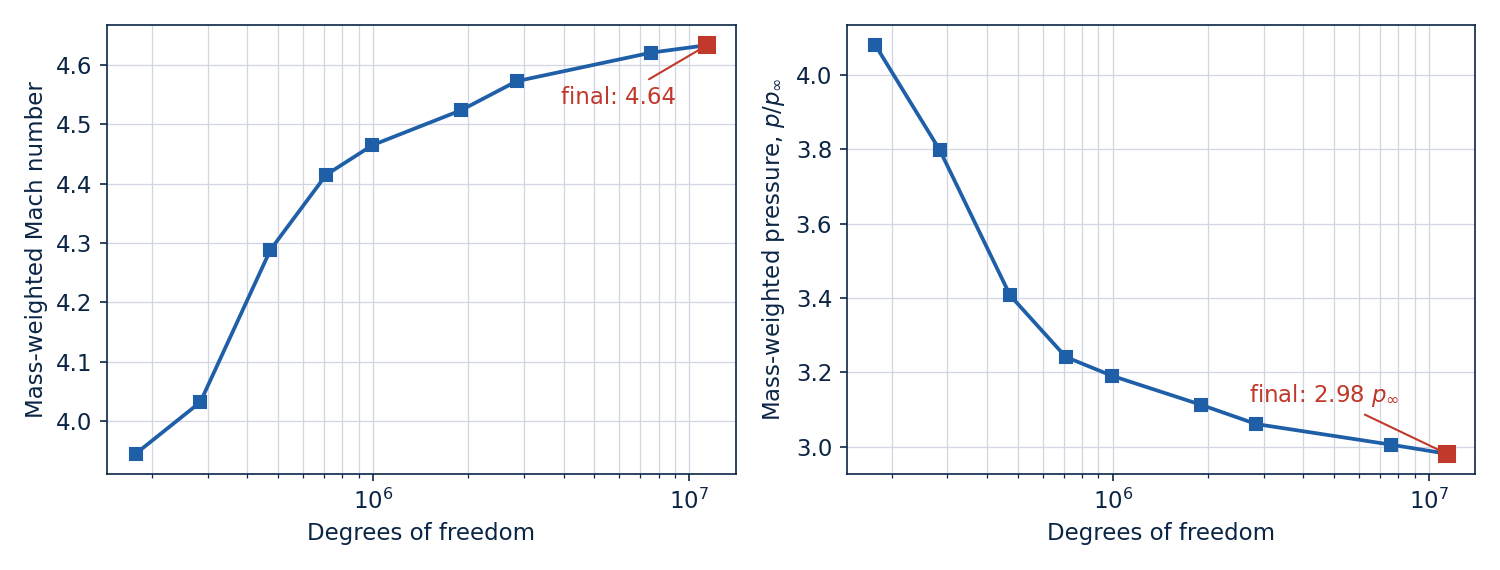
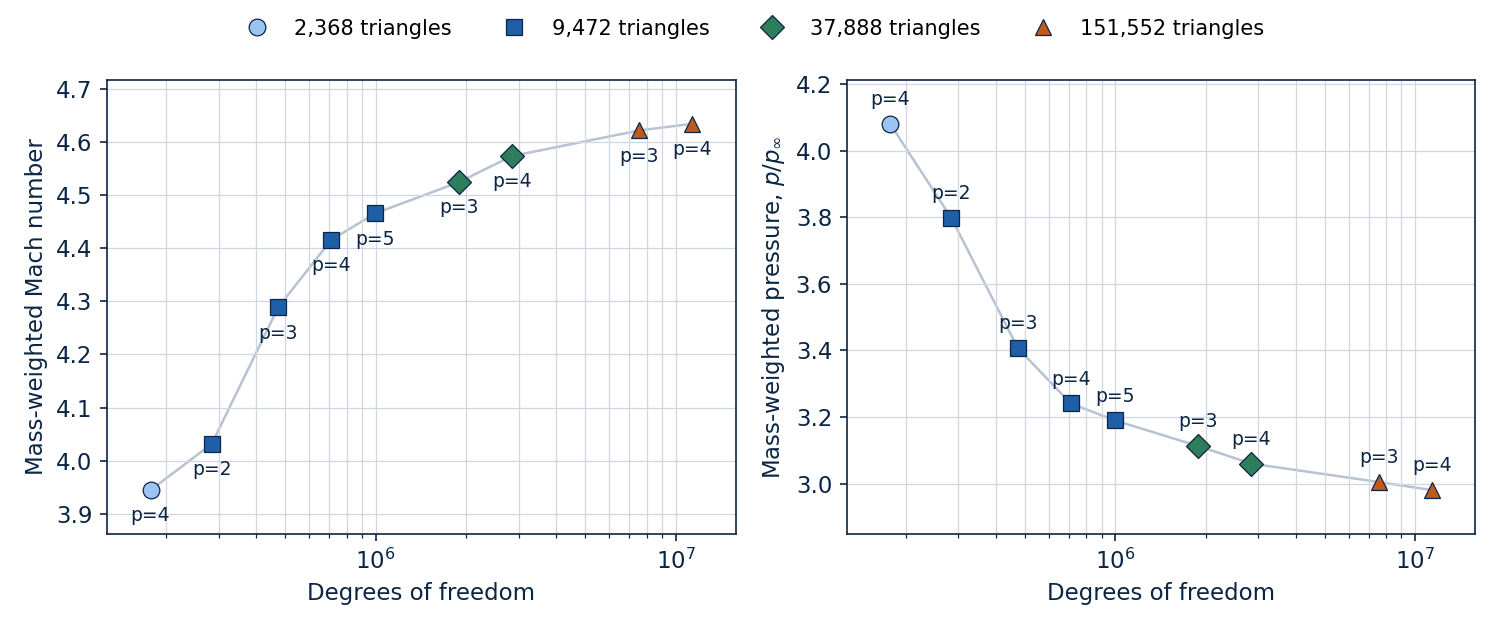
Isolator page: domain schematic, hp levels, CRC and Talon, purpose of the CFD

diff --git a/_portfolio/hypersonic-inlet-isolator.md b/_portfolio/hypersonic-inlet-isolator.md
@@ -13,35 +13,48 @@ compresses it. The isolator is a straight duct that separates the inlet from the
 pressure in the combustor becomes too high, a shock train moves upstream through the isolator and
 the inlet *unstarts*: it no longer captures the flow.
 
-My colleagues at Notre Dame measured the pressure on the inner wall of an axisymmetric
-inlet/isolator model at Mach 5.7, with fast pressure-sensitive paint [1]. Paint gives the pressure
-on the wall only. **I computed the steady flow inside the model**, to show the flow structures away
-from the wall and to give the flow conditions at the isolator entrance.
+My colleagues at Notre Dame tested an axisymmetric inlet/isolator model at Mach 5.7 and measured
+the pressure on the inner wall of the isolator with fast pressure-sensitive paint [1]. Paint gives
+the pressure on the wall only. After the experiments, **I computed the steady flow inside the
+model** to give the off-wall context of the measurements: the shocks, expansions, and separated
+regions inside the duct, and the flow conditions at the isolator entrance.
+
+## The computational model
+
+### Geometry and domain
 
 The model is a conical inlet with a 9° half-angle, followed by a straight isolator. The capture
 diameter is 63.5 mm and the isolator diameter is 50.8 mm. The free stream is at Mach 5.7, with a
 total temperature of 429.96 K, a static pressure of 506.48 Pa, and a unit Reynolds number of
 7.1 × 10⁶ /m.
 
-## The computational model
+The coordinate $$x$$ is the one used in the paper: it starts at the **isolator entrance**, 64.7 mm
+downstream of the capture plane. The isolator entrance is not the shoulder, where the conical
+wall ends: the shoulder is about 25 mm upstream of it.
+
+![Computational domain and boundary conditions](/images/isolator/isolator_domain.svg)
+
+*The computational domain and its boundary conditions, on a plane through the axis. The
+averaging plane $$A$$ at the isolator entrance is used for the approach conditions below.*
+{: .caption}
+
+### Numerical method
 
 - **Equations:** axisymmetric (no swirl) compressible Navier–Stokes, ideal gas, viscosity from
   Sutherland's law.
-- **Domain:** the interior of the inlet and isolator, plus a short region upstream of the inlet.
-- **Boundary conditions:** supersonic inflow and outflow; no-slip isothermal walls; symmetry on
-  the axis ($$r = 0$$).
 - **Discretization:** interior-penalty discontinuous Galerkin (DG) method, polynomial degree
   $$p = 4$$ on 151,552 triangles, which gives 11,366,400 degrees of freedom.
 - **Shocks:** a PDE-based artificial viscosity, driven by a dilation-based shock sensor, keeps the
   high-order solution stable at the shocks.
-- **Solver:** pseudo-transient continuation with an adaptive time step, in Talon, our in-house
-  Julia code. The final solve ran on 64 MPI ranks on the Notre Dame cluster.
+- **Solver:** pseudo-transient continuation with an adaptive time step.
+- **Code and hardware:** Talon, our lab's in-house high-order CFD code, written in Julia. The
+  final solve ran on 64 MPI ranks at the
+  [Notre Dame Center for Research Computing (CRC)](https://crc.nd.edu/).
 
 ## Results
 
-The contours below show the flow on a plane through the axis. The coordinate $$x$$ starts at the
-isolator entrance. The figures are long and thin, like the isolator: **scroll sideways to see
-the whole length.**
+The contours below show the flow on a plane through the axis. The figures are long and thin, like
+the isolator: **scroll sideways to see the whole length.**
 
 <div class="hscroll-fig">
   <div class="hscroll">
@@ -67,28 +80,36 @@ wall along the whole isolator.*
 The main flow features are:
 
 - The **conical shock** from the inlet leading edge reflects through the isolator.
-- **Expansion waves** start at the inlet shoulder, where the cone meets the straight duct.
+- **Expansion waves** start at the inlet shoulder.
 - Two **separation bubbles** form on the wall, at about $$x = 0$$ to 80 mm and $$x = 200$$ to
   250 mm. Each one generates a separation shock, which also reflects downstream.
 
-Because of these shocks and expansions, the flow at the isolator entrance is far from uniform. So
-the entrance conditions are given as **mass-weighted averages** over the entrance plane $$A$$:
+The paper uses the first separation bubble to explain a measurement: once the shock train moves
+upstream of about $$x = 120$$ mm, it speeds up, because the separated flow cannot sustain a large
+pressure rise across it.
+
+Because of the shocks and expansions, the flow at the isolator entrance is far from uniform. So
+the approach conditions are given as **mass-weighted averages** over the entrance plane $$A$$:
 
 $$\bar{M} = \frac{\int_A M\,\rho\,|\mathbf{v}\cdot\mathrm{d}\mathbf{A}|}{\int_A \rho\,|\mathbf{v}\cdot\mathrm{d}\mathbf{A}|}, \qquad \bar{p} = \frac{\int_A p\,\rho\,|\mathbf{v}\cdot\mathrm{d}\mathbf{A}|}{\int_A \rho\,|\mathbf{v}\cdot\mathrm{d}\mathbf{A}|}.$$
 
-The result is $$\bar{M} = 4.64$$ and $$\bar{p} = 2.98\,p_\infty$$. The experiment uses these
-values as the approach conditions of the isolator.
+The result is $$\bar{M} = 4.63$$ and $$\bar{p} = 2.98\,p_\infty$$. The paper uses these values as
+the approach conditions of the isolator, for example to compare the measured pressure rise across
+the shock train with the pressure rise across a normal shock at the isolator entrance.
 
 ## Mesh and degree convergence
 
-The mesh was refined and the polynomial degree was increased ($$hp$$ refinement) until the change
-in both averages was below 1%. Between the last two levels, $$\bar{M}$$ changes by 0.27% and
-$$\bar{p}$$ by 0.81%.
+The solution was computed on four nested meshes (each one splits every triangle of the previous
+mesh into four) with polynomial degrees from 2 to 5. The mesh was refined ($$h$$) and the degree
+was increased ($$p$$) until the change in both averages was below 1%. Between the last two levels,
+$$\bar{M}$$ changes by 0.27% and $$\bar{p}$$ by 0.81%.
 
 ![hp convergence](/images/isolator/isolator_hp_convergence.png)
 
 *Mass-weighted Mach number (left) and pressure (right) at the isolator entrance, against the
-number of degrees of freedom. The red marker is the final solution.*
+number of degrees of freedom. The marker shape and color give the mesh, the label gives the
+polynomial degree. The count includes the five fields of the solution (four flow variables and
+the artificial viscosity).*
 {: .caption}
 
 ## Reference
